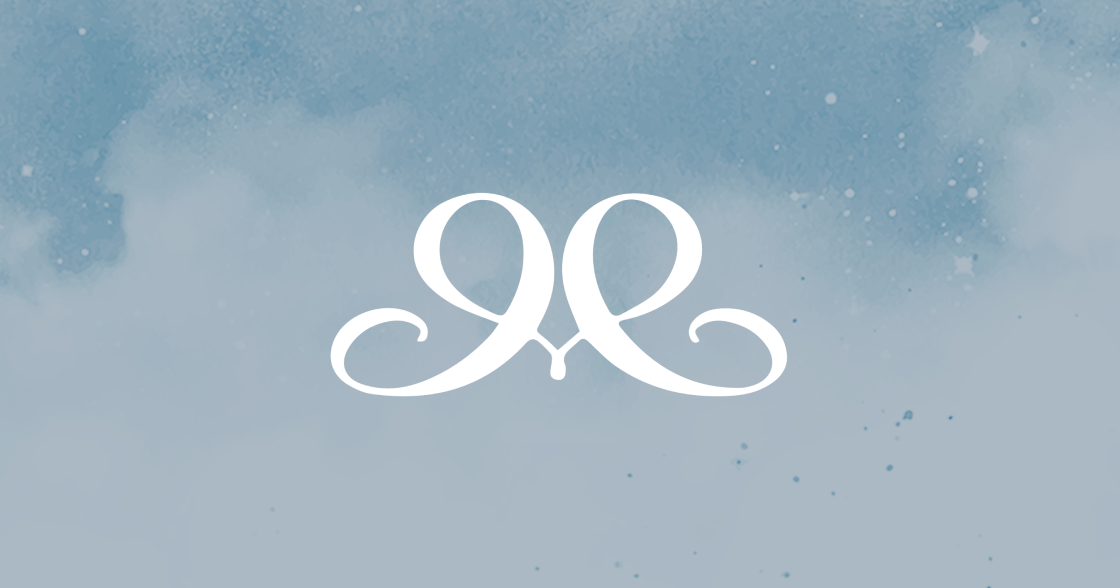
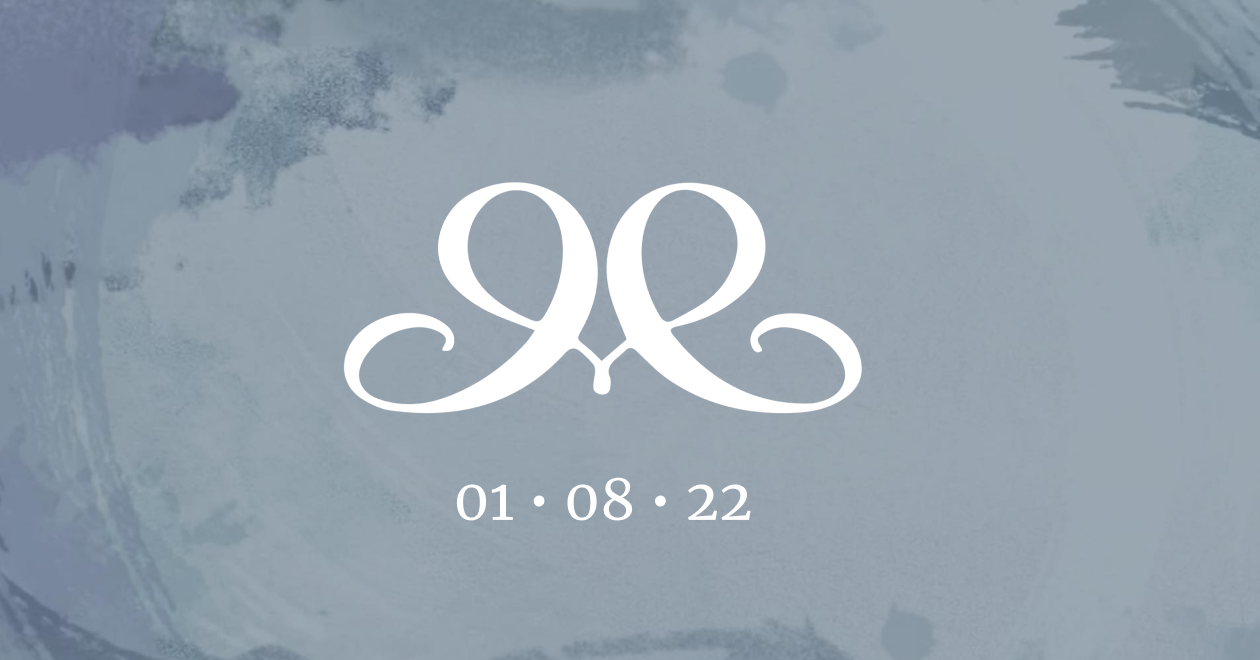
fixed thumbnail

diff --git a/index.html b/index.html
@@ -5,6 +5,26 @@
 		<title>Jessa & Edrick</title>
 		<meta charset="utf-8" />
 		<meta name="viewport" content="width=device-width, initial-scale=1, user-scalable=no" />
+
+
+				<meta name="description" content="January 8, 2022 #JessEdYes">
+				<meta name="author" content="Jessa & Ed">
+				<meta property="og:title" content="Jessa & Edrick" />
+				<meta property="og:type" content="website" />
+				<meta property="og:description" content="January 8, 2022 #JessEdYes" />
+				<meta property="og:image:secure_url" content="" />
+				<meta property="og:image" content="/images/thumb.png" />
+				<meta property="og:image:width" content="1000" />
+				<meta property="og:image:height" content="520" />
+				<meta property="og:url" content="" />
+				<meta property="og:site_name" content="" />
+
+				<meta name="twitter:card" content="summary_large_image" />
+				<meta name="twitter:title" content="Jessa & Edrick" />
+				<meta name="twitter:description" content="January 8, 2022 #JessEdYes" />
+				<meta name="twitter:image" content="/images/thumb.png" />
+
+				
 		<link rel="stylesheet" href="assets/css/main.css" />
 		<noscript><link rel="stylesheet" href="assets/css/noscript.css" /></noscript>
 	</head>

diff --git a/invite/index.html b/invite/index.html
@@ -8,7 +8,7 @@
 
 		<meta name="description" content="January 8, 2022 #JessEdYes">
 		<meta name="author" content="Jessa & Ed">
-		<meta property="og:title" content="Jessa & Ed" />
+		<meta property="og:title" content="Jessa & Edrick" />
 		<meta property="og:type" content="website" />
 		<meta property="og:description" content="January 8, 2022 #JessEdYes" />
 		<meta property="og:image:secure_url" content="" />
@@ -19,7 +19,7 @@
 		<meta property="og:site_name" content="" />
 
 		<meta name="twitter:card" content="summary_large_image" />
-		<meta name="twitter:title" content="Jessa & Ed" />
+		<meta name="twitter:title" content="Jessa & Edrick" />
 		<meta name="twitter:description" content="January 8, 2022 #JessEdYes" />
 		<meta name="twitter:image" content="/images/thumb.png" />
 
@@ -143,7 +143,7 @@
 						<!-- Form -->
 
 
-							<form method="post" action="https://getform.io/f/75bd7476-97ad-49a6-8442-7bc5a7b29233">
+							<form method="post" action="https://getform.io/f/800c837f-227a-4256-ab27-f9ce187b4300">
 								<h2>RSVP</h2>
 								<div class="row gtr-uniform">
 									<div class="col-12 col-12-xsmall">
